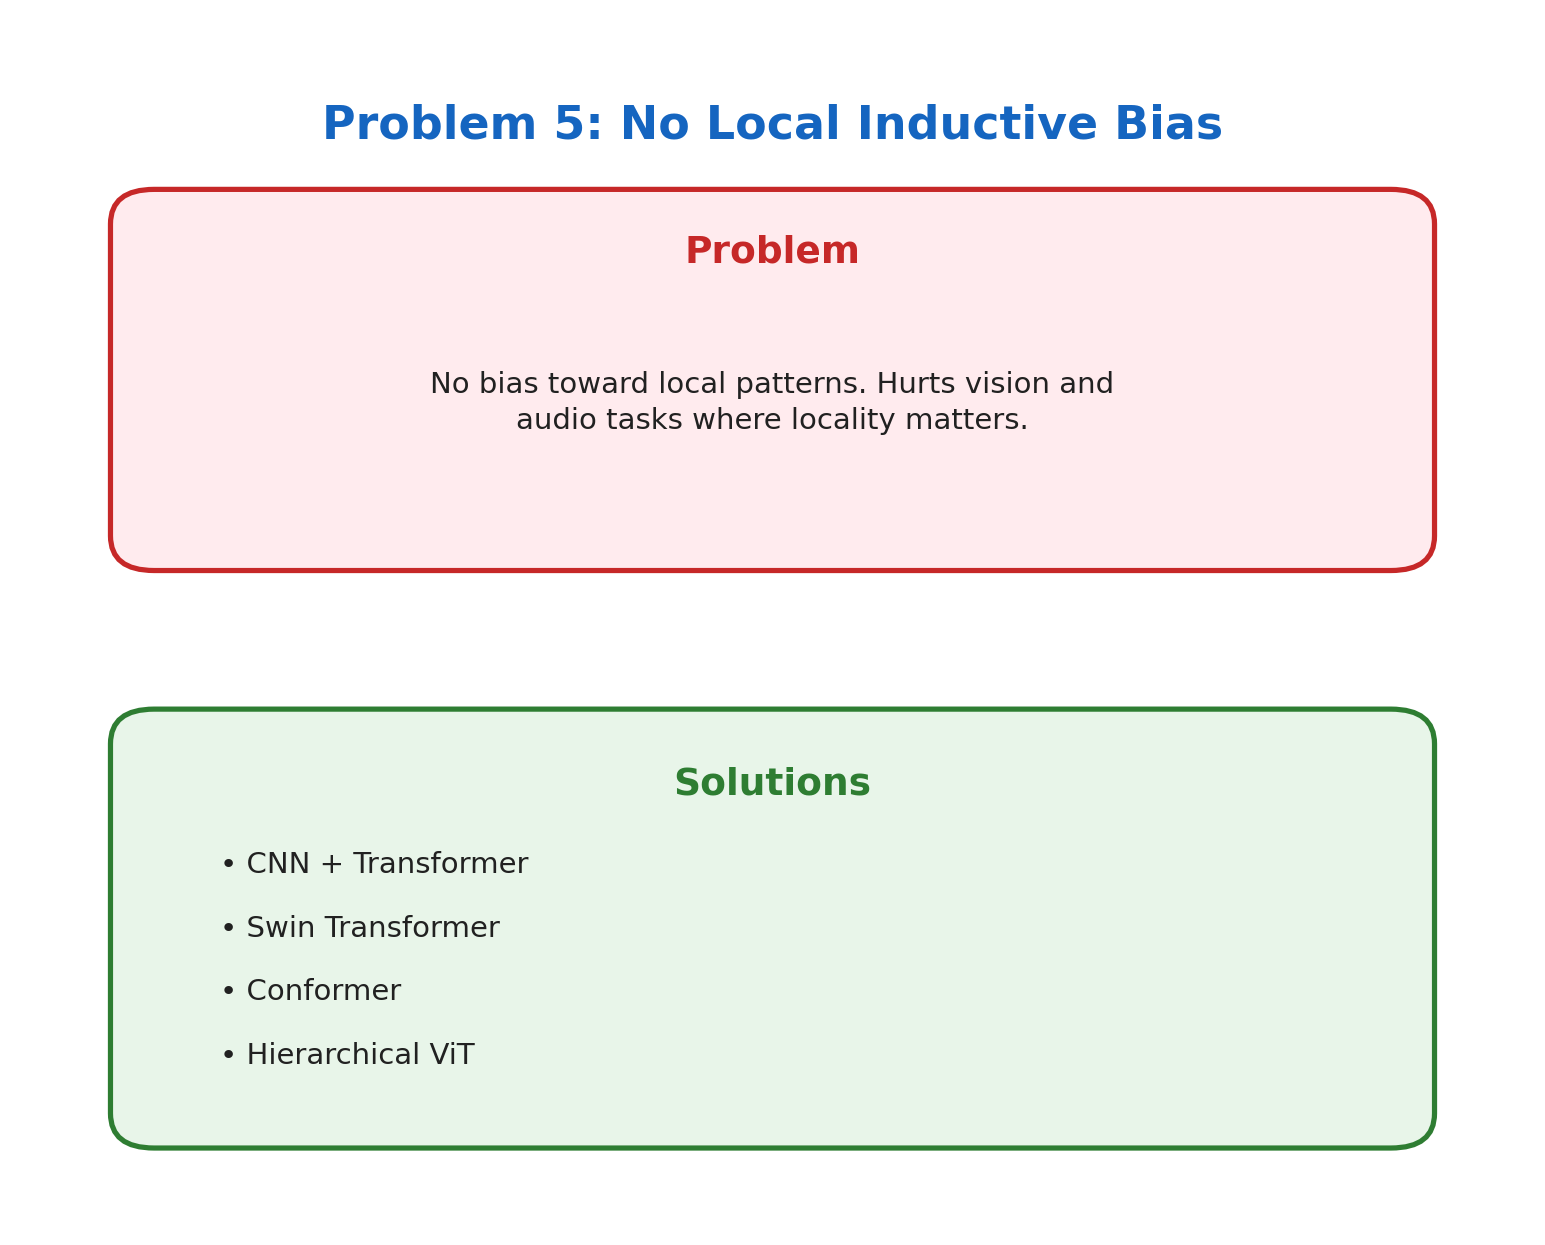
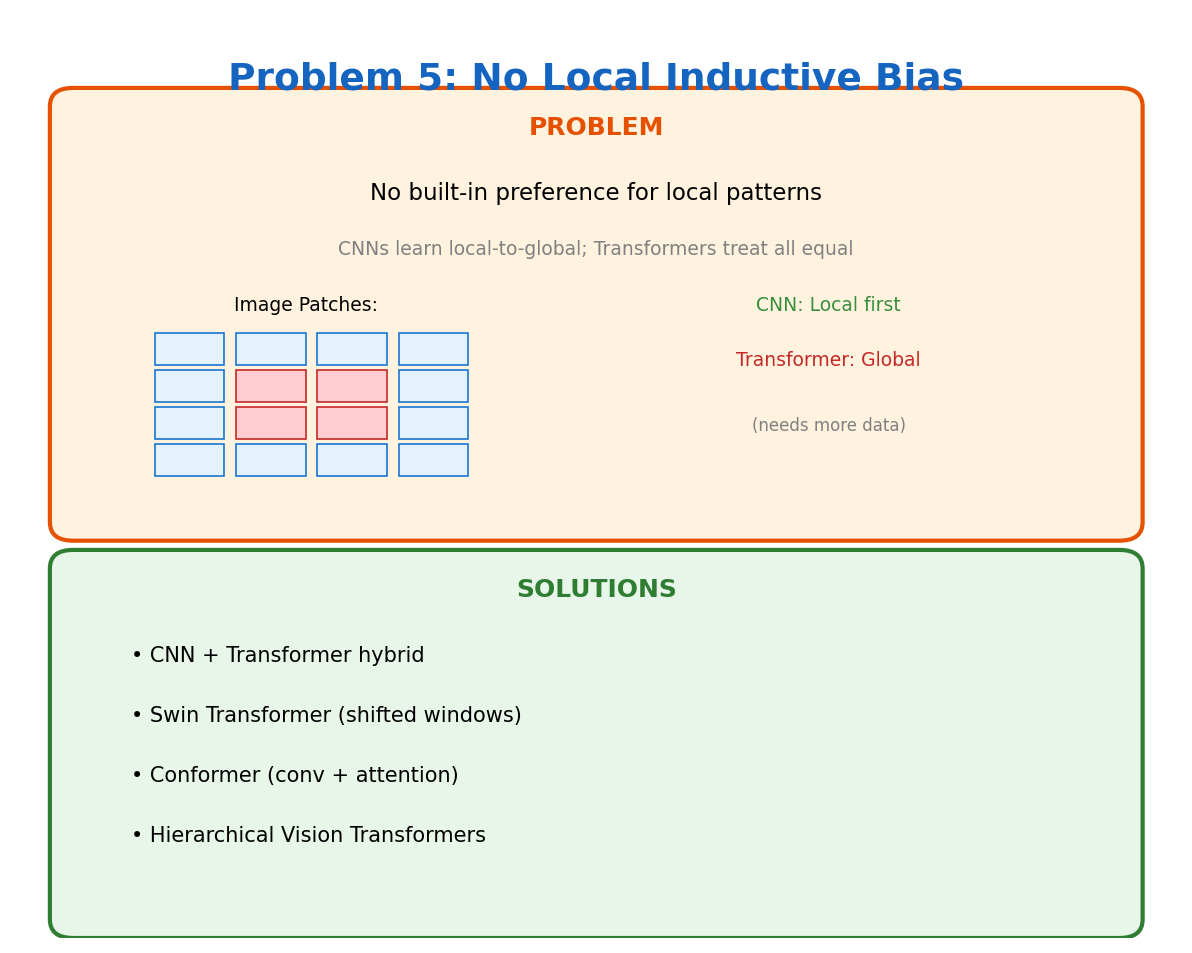
Update Problem 05: Local Inductive Bias - human-readable README

diff --git a/05_local_bias/README.md b/05_local_bias/README.md
@@ -1,23 +1,59 @@
 # Problem 5: No Local Inductive Bias
 
-## Problem
+[← Back to Main](../README.md) | [← Previous](../04_slow_decoding/README.md) | [Next →](../06_data_hungry/README.md)
 
-No bias toward local patterns. Hurts vision and audio tasks where locality matters.
+---
 
-Unlike CNNs which have built-in locality through convolutions, Transformers treat all positions equally. This lack of inductive bias means they need more data to learn local patterns that are crucial for images and audio.
+![Problem 5](./problem.png)
 
-## Solutions
+## What's the Problem?
 
-| Solution | Description |
-|----------|-------------|
-| **CNN + Transformer** | Hybrid architectures combining convolutional and attention layers |
-| **Swin Transformer** | Shifted window attention for hierarchical local-global modeling |
-| **Conformer** | Combines convolution and self-attention for speech recognition |
-| **Hierarchical ViT** | Multi-scale vision transformers with local attention at early layers |
+When you look at an image, nearby pixels usually mean more than distant ones. A cat's ear pixels relate strongly to nearby fur pixels, not so much to the background sky.
 
-## References
+CNNs "get" this naturally — convolutions are local by design. Transformers? They treat position 1 and position 1000 with equal importance. Every token can attend to every other token equally.
 
-- [Swin Transformer](https://arxiv.org/abs/2103.14030) - Hierarchical Vision Transformer using Shifted Windows
-- [Conformer](https://arxiv.org/abs/2005.08100) - Convolution-augmented Transformer for Speech Recognition
-- [CoAtNet](https://arxiv.org/abs/2106.04803) - Marrying Convolution and Attention
+For images, this means ViT needs way more data than CNNs to learn that "nearby stuff matters more."
 
+## Why Does This Happen?
+
+Self-attention computes:
+```
+attention(i, j) = softmax(q_i · k_j)
+```
+
+Notice anything missing? There's no concept of distance between positions i and j. The model has to *learn* that nearby positions are often more relevant — it doesn't come for free.
+
+## Why Local Bias Helps
+
+In many domains, there's inherent locality:
+- **Images**: Objects are spatially coherent
+- **Audio**: Adjacent frames are related
+- **Text**: Nearby words form phrases
+
+Starting with this assumption (inductive bias) lets models learn faster with less data.
+
+## How Do We Fix It?
+
+| Approach | The Idea |
+|----------|----------|
+| **CNN + Transformer** | Use conv layers early (local), attention later (global) |
+| **Swin Transformer** | Attention only within local windows, shift windows between layers |
+| **Conformer** | Interleave convolution and attention blocks |
+| **Hierarchical ViT** | Start with small patches, merge them progressively |
+
+## The Hybrid Approach Works
+
+Most state-of-the-art vision models now combine both:
+- Convolutions capture local patterns efficiently
+- Attention captures global relationships
+
+Best of both worlds.
+
+## Learn More
+
+- [Swin Transformer](https://arxiv.org/abs/2103.14030) — Shifted windows
+- [ConvNeXt](https://arxiv.org/abs/2201.03545) — Modernized CNNs compete with transformers
+
+---
+
+[← Back to Main](../README.md) | [← Previous](../04_slow_decoding/README.md) | [Next →](../06_data_hungry/README.md)
